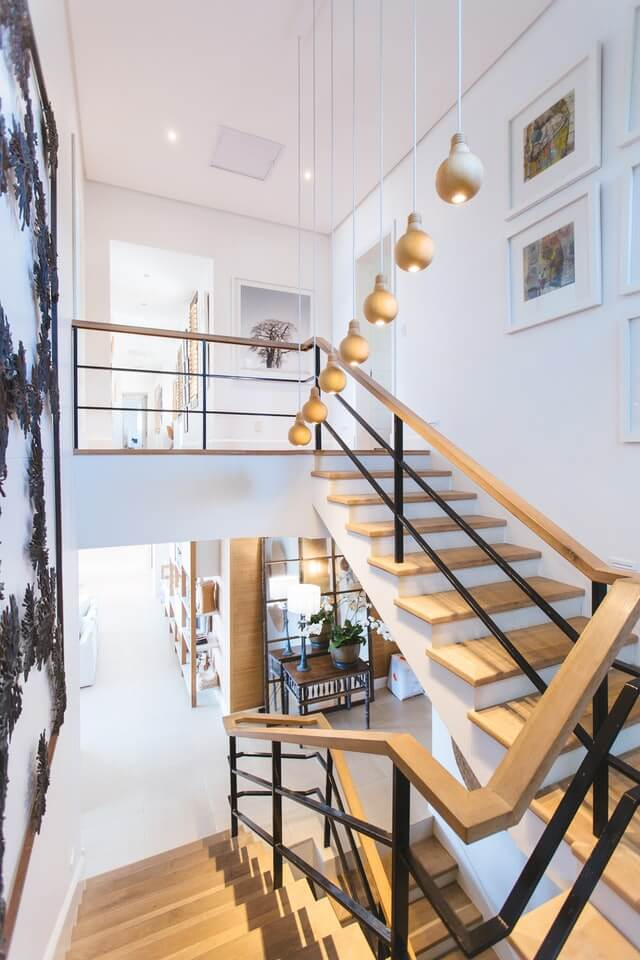
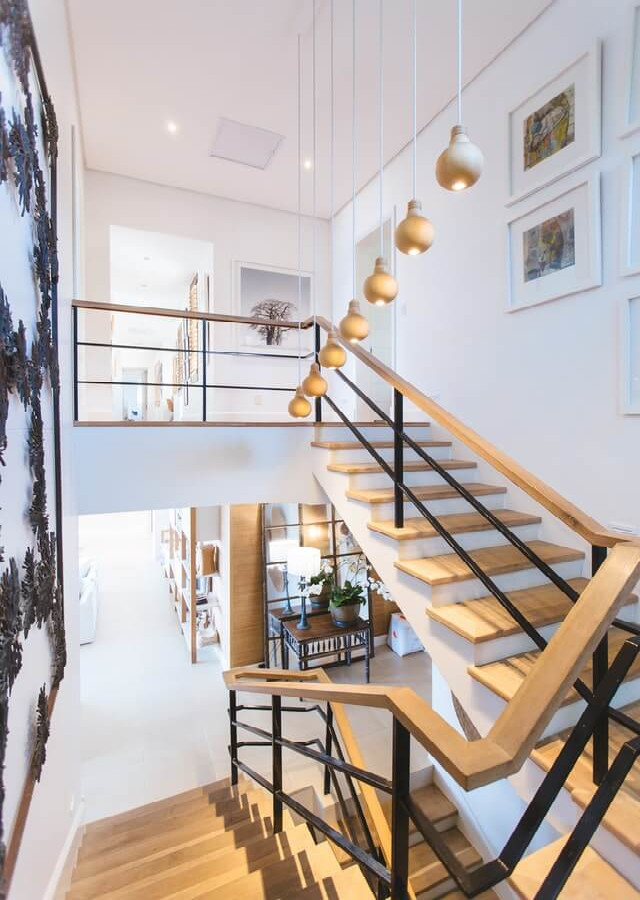
Ajusta imagens dos destaques

Changed region(s): [[0.125, 0.4044, 0.2188, 0.4356], [0.375, 0.8089, 0.4062, 0.84]]

diff --git a/index.html b/index.html
@@ -212,14 +212,16 @@
                     </div>
                 </div>
                 <div class="col-12 col-md-4">
-                    <img src="img/project-4.jpg" alt="Escada amadeirada com detalhes pretos" class="img-fluid">
+                    <img src="img/project-4.jpg" alt="Escada amadeirada com detalhes pretos" 
+                    class="img-fluid">
                     <div class="banner-content">
                         <p class="secondary-color">Categoria</p>
                         <h3>Nome do Projeto</h3>
                     </div>
                 </div>
                 <div class="col-12 col-md-4">
-                    <img src="img/project-5.jpg" alt="Cozinha predominantemente branca" class="img-fluid">
+                    <img src="img/project-5.jpg" alt="Cozinha predominantemente branca" 
+                    class="img-fluid">
                     <div class="banner-content">
                         <p class="secondary-color">Categoria</p>
                         <h3>Nome do Projeto</h3>
